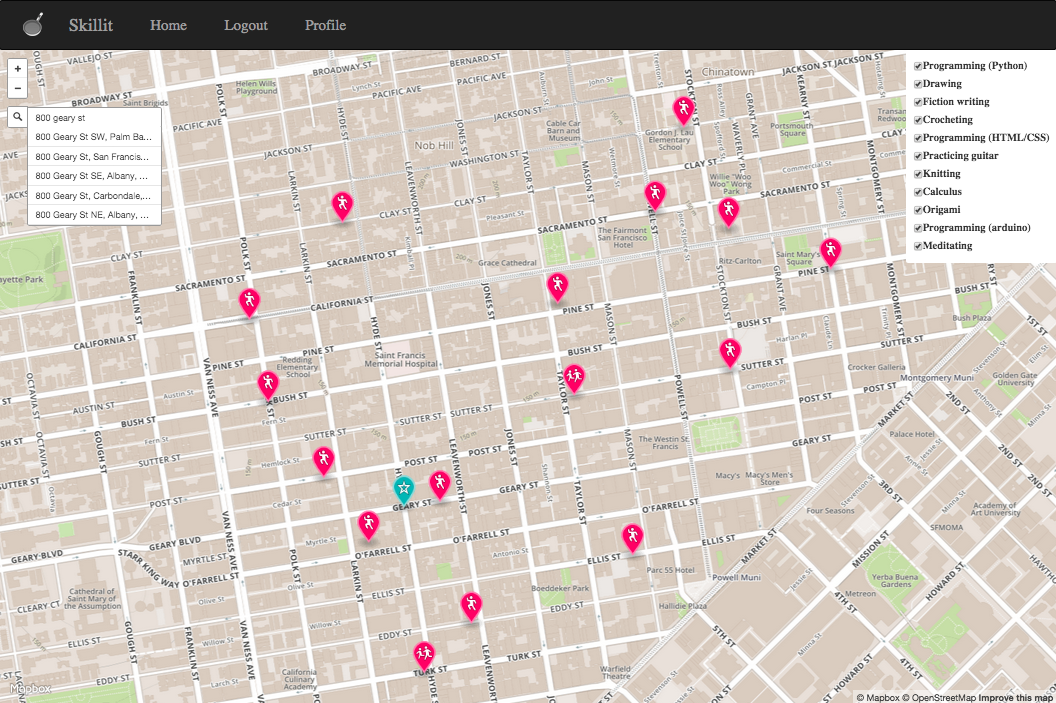
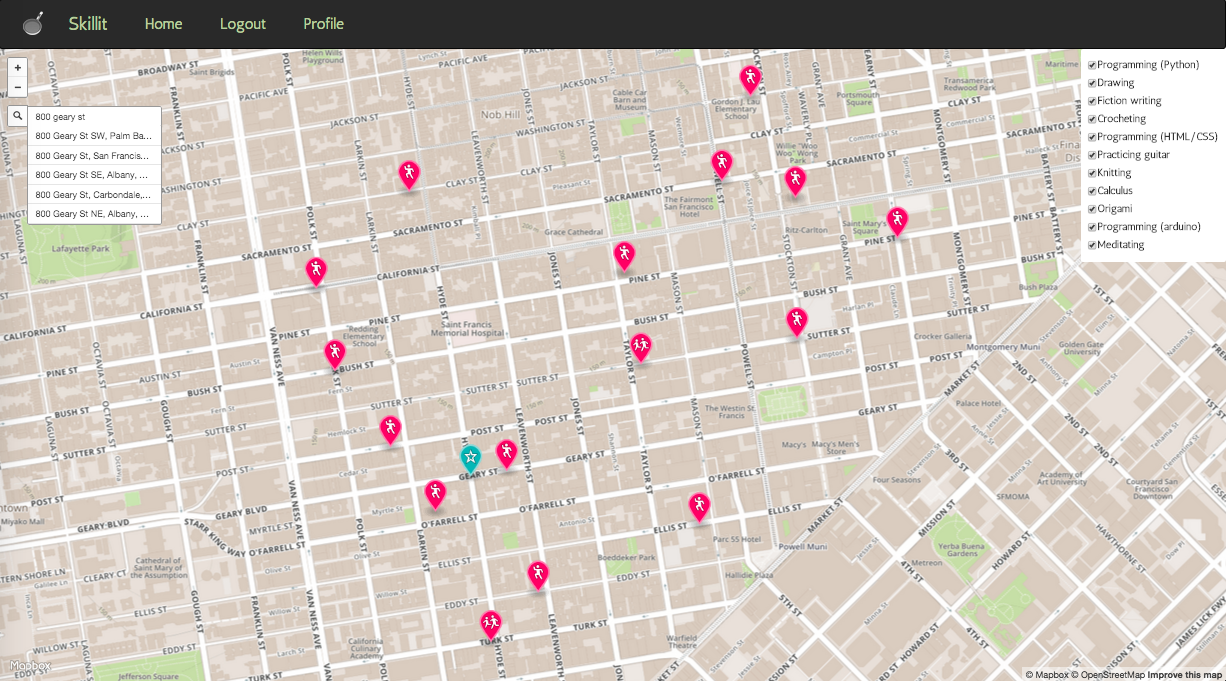
Modified homepage and profile page styling and extended readme.

diff --git a/templates/user_profile.html b/templates/user_profile.html
@@ -24,7 +24,7 @@
                 {% if fav_hobbies %}
                     <div>
                         <h3 style="text-align:center"><strong>Saved hobbies</strong></h3>
-                        <table class="saved-hobbies table-hover">
+                        <table class="saved-hobbies">
                           <tbody>
                             {% for fav_hobby in fav_hobbies %}
                               <tr id="{{fav_hobby.hobby_id}}" scope="col">
@@ -39,6 +39,16 @@
                 {% endif %}
             
             <br>
+            {% with messages = get_flashed_messages() %}
+                {% if messages %}
+                    {% for message in messages %}
+                        <div class="alert">
+                            <button type="button" class="close" data-dismiss="alert">&times;</button>
+                            <strong>{{ message }}</strong>
+                        </div>
+                    {% endfor %}
+                {% endif %}
+            {% endwith %}
             <div id="add-hobby">
                 <p style="font-size:24px">Add a new hobby to your favorites!</p>
                 <form action="/add_hobby" method="POST">
@@ -54,16 +64,6 @@
                         <input class="submit-add" type="submit" name="hobbysubmit" value="Add to profile">
                         <p style="margin-top:20px"><label>Can't find your hobby? Add it below!</label></p>
                     {% endif %}
-                    {% with messages = get_flashed_messages() %}
-                        {% if messages %}
-                            {% for message in messages %}
-                                <div class="alert">
-                                    <button type="button" class="close" data-dismiss="alert">&times;</button>
-                                    <strong>{{ message }}</strong>
-                                </div>
-                            {% endfor %}
-                        {% endif %}
-                    {% endwith %}
                     <input type="text" name="newhobby">
                     <input style="margin-bottom:20px" class="submit-add" type="submit" name="newhobbysubmit" value="Add to profile">
                 </form>

diff --git a/static/js/map.js b/static/js/map.js
@@ -7,37 +7,10 @@ if(fav_hobbies){
     console.log(fav_hobbies)
 };
 
-var x = []
-
-function getLocation() {
-    if (navigator.geolocation) {
-        navigator.geolocation.getCurrentPosition(setPosition);
-    } else { 
-        setMap([37.7833,-122.4167],9)
-    }
-}
-
-console.log(x);
-getLocation();
-console.log(x);
-
-function setPosition(position){
-    console.log('made it');
-    console.log(position);
-    x.push(position.coords.latitude,position.coords.longitude);
-    console.log(x);
-    setMap(x,16);
-}
-
-console.log(x)
-// [37.7833,-122.4167]
-
 var geocoderControl = L.mapbox.geocoderControl('mapbox.places');
 
-function setMap(x,y){
-    var map = L.mapbox.map('map', 'mapbox.streets').setView(x,y);
-    geocoderControl.addTo(map);
-}
+var map = L.mapbox.map('map', 'mapbox.streets').setView([37.7833,-122.4167],13);
+geocoderControl.addTo(map);
 
 var otherPin;
 var myPin;
@@ -344,7 +317,10 @@ geocoderControl.on('select', function(res) {
     var latlon = res.feature.geometry.coordinates;
     var address = res.feature.place_name;
     var city = cityFromContext(res.feature.context);
-
+    var latFromLatLon = latlon[0]
+    var lonFromLatLon = latlon[1]
+    map.setView([lonFromLatLon,latFromLatLon],16);
+    
     loc = {}
     loc['lat']=latlon[0];
     loc['lon']=latlon[1];
@@ -386,6 +362,7 @@ geocoderControl.on('select', function(res) {
     stringToAdd+=generateButtonHtml(session['username']);
     myPin.bindPopup(stringToAdd);
     myPin.addTo(map);
+
 
     $('#map').on('change', '#selecthobby', function(){
         var selected = $('#selecthobby').find(":selected").text();

diff --git a/static/styles.css b/static/styles.css
@@ -8,24 +8,35 @@
 .navbar {
     padding-top: 8px;
     padding-bottom: 6px;
-    font-family: "Antic";
+    font-family: 'Antic', "Lucida Sans Unicode", sans-serif;
+    background-color: #2A2A2A;
+    color:#BCCE98;
 }
 
 .navbar a {
     margin-left:10px;
     margin-right:10px;
     font-size:20px;
+    color:#BCCE98;
+}
+
+.navbar-inverse .navbar-nav li a {
+  color:#BCCE98;
+}
+
+.navbar-inverse .navbar-brand {
+    color:#BCCE98; 
 }
 
 body.logged-out{
     background-image: url("/static/map2.png");
-    font-family: "Antic";
+    font-family: 'Antic', "Lucida Sans Unicode", sans-serif;
 }
 
 body { 
     margin:0; 
     padding:0; 
-    font-family: "Antic";
+    font-family: 'Antic', "Lucida Sans Unicode", sans-serif;
 }
 
 #map { 
@@ -65,13 +76,23 @@ body {
   border-bottom: 0;
   padding-right: 60px;
   padding-left: 60px;
-  width: 550px;
+  width: 600px;
   margin-left: auto;
   margin-right: auto;
   margin-top: 320px;
-  color: inherit;
   border-width: 3px;
   border-style: solid;
+  background-color:black;
+  opacity:.8;
+  color:white;
+}
+
+.jumbotron button, .jumbotron .btn {
+  color:white;
+}
+
+.jumbotron input {
+  color:black;
 }
 
 .jumbotron p {

diff --git a/static/profile.css b/static/profile.css
@@ -8,10 +8,13 @@ body {
 #profile {
     border:1px solid black;
     border-radius:6px;
+    margin-top:35px;
     margin-left:auto;
     margin-right:auto;
-    width:95%;
-    background-color: #EEE;
+    width:90%;
+    background-color:black;
+    opacity:.8;
+    color:white;
 }
 
 .basic-info li {
@@ -37,7 +40,18 @@ body {
 }
 
 #add-hobby p {
-    font-size:20px;
+    font-size:20px; 
+}
+
+.submit-add {
+    color:white;
+}
+
+input, select, textarea {
+  font-family: inherit;
+  font-size: inherit;
+  line-height: inherit;
+  color: black;
 }
 
 #name {
@@ -49,6 +63,7 @@ body {
     text-align:center;
     font-size:40px;
     margin-top:10px;
+    color:#BAE276;
 }
 
 #username p, #email p, #phone p {
@@ -70,7 +85,8 @@ body {
 }
 
 .alert {
-    background-color:#00CC99;
+    background-color:#DF0260;
     font-size:24px;
     opacity: .6;
+    color:white;
 }

diff --git a/templates/base.html b/templates/base.html
@@ -3,9 +3,10 @@
 <head>
     <title>Skillit</title>
     <link rel="stylesheet" href="/static/bootstrap/css/bootstrap.min.css">
-    <link rel="stylesheet" href="/static/bootstrap/js/bootstrap.js">
+    <link href='http://fonts.googleapis.com/css?family=Antic' rel='stylesheet' type='text/css'>
     <link rel="stylesheet" href="/static/styles.css">
-    <link href='http://fonts.googleapis.com/css?family=Pompiere|Antic|Open+Sans+Condensed:300,300italic,700' rel='stylesheet' type='text/css'>
+    <script src="http://code.jquery.com/jquery-1.11.2.min.js"></script>
+    <script src="/static/bootstrap/js/bootstrap.js"></script>
     {% block head %} {% endblock %}
 </head>
 {% if 'email' not in session.keys() %}

diff --git a/templates/homepage.html b/templates/homepage.html
@@ -4,7 +4,6 @@
         <script src='https://api.tiles.mapbox.com/mapbox.js/v2.1.9/mapbox.js'></script>
         <link href='https://api.tiles.mapbox.com/mapbox.js/v2.1.9/mapbox.css' rel='stylesheet' />
     {% endif %}
-    <script src="http://code.jquery.com/jquery-1.11.2.min.js"></script>
 {% endblock %}
 
 {% block body %}

diff --git a/README.md b/README.md
@@ -5,5 +5,19 @@
 Skillit is designed to build community in an increasingly disconnected world by facilitating collaborative learning. If you want to take a hobby or skill to the next level, just enter your address, and Skillit shows you a real time map of other users within 2 km who are currently working and open to collaborating. Filter those users by what they're working on, and when you find someone who you'd like to meet up with, send them a message through the app telling them you're on your way - then head over to meet your new skill buddy!
 
 ####Technology stack
-Python, Flask, SQLite, SQLAlchemy, JavaScript, HTML, CSS, Bootstrap
+Backend: Python, Flask, Jinja, SQLite, SQLAlchemy
+Frontend:  JavaScript, HTML, CSS, Bootstrap
 APIs: Mapbox, Twilio
+
+####Overview
+
+After creating an account and loging in, a user can search the map with his or her current (or desired) location - the map will be populated with users within 2 km of the user who are open to collaborating. After filtering by hobby and selecting someone to collaborate with, the user can customize a message to his or her new skill buddy, and a Twilio API call sends this message to the already-checked-in user.
+
+![image](/static/checkin.png)
+
+If a user doesn't want to meet up with any of the currently checked-in users, he or she may check in at their own location and wait for others to join them. 
+
+![image](/static/solo-checkin.png)
+
+#### Profile
+A user may also add favorite hobbies to his or her profile, either by selecting a hobby that already exists in the database or by adding a new one. Then, when checking in, the user may select a favorite hobby via a dropdown populated by hobbies linked to that user in the database.
